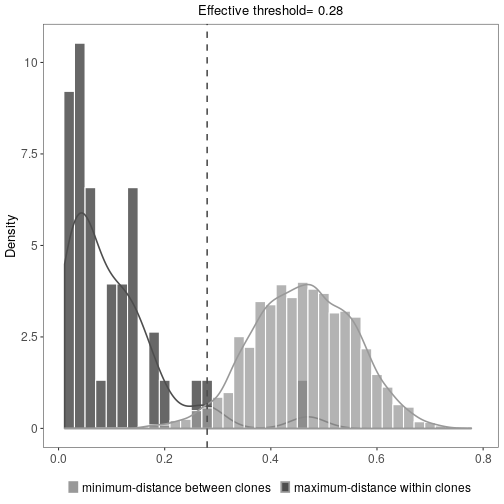
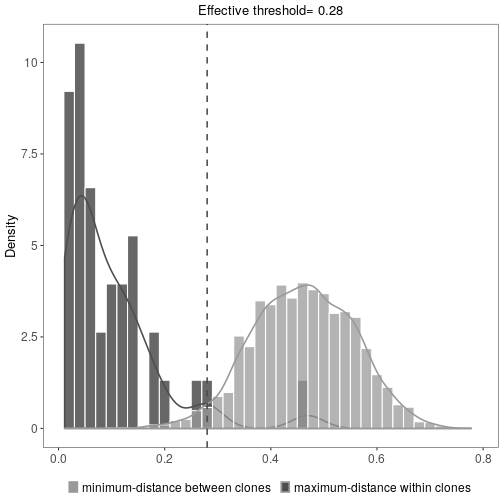
AIRR migration

diff --git a/docs/vignettes/Scoper-Vignette.md b/docs/vignettes/Scoper-Vignette.md
@@ -63,15 +63,16 @@ defineClonesScoper(db,
                    model = c("identical", "hierarchical", "spectral"),
                    method = c("nt", "aa", "single", "average", "complete", 
                               "novj", "vj"),
-                   germline_col = "GERMLINE_IMGT", sequence_col = "SEQUENCE_IMGT",
-                   junction_col = "JUNCTION", 
-                   v_call_col = "V_CALL", j_call_col = "J_CALL",
+                   germline_col = "germline_alignment", 
+                   sequence_col = "sequence_alignment",
+                   junction_col = "junction", 
+                   v_call_col = "v_call", j_call_col = "j_call",
                    clone_col = c("CLONE", "clone_id"),
                    targeting_model = NULL, len_limit = NULL, first = FALSE, 
                    cdr3 = FALSE, mod3 = FALSE, max_n = NULL, threshold = NULL,
                    base_sim = 0.95, iter_max = 1000, nstart = 1000, nproc = 1,
                    verbose = FALSE, log_verbose = FALSE, out_dir = ".",
-                   summerize_clones = FALSE)
+                   summarize_clones = FALSE)
 ```
 
 The following discussion is applicable for all three models. 
@@ -99,9 +100,9 @@ argument `mod3` should be set as `TRUE` (the default is `FALSE`).
 8. If the argument `log_verbose` be set as `TRUE`, the `verbose` output is written to 
 a file in the current input directory (by default).
 9. If the `out_dir` is specified, then its path will be used to save `log_verbose`. 
-10. If `summerize_clones` set to be `FALSE` (default), the `defineClonesScoper` function 
+10. If `summarize_clones` set to be `FALSE` (default), the `defineClonesScoper` function 
 will return a modified `data.frame` with clone identifiers in the `clone_col` column. 
-Otherwise, if `summerize_clones` set to be `TRUE`, the `defineClonesScoper` function 
+Otherwise, if `summarize_clones` set to be `TRUE`, the `defineClonesScoper` function 
 will perform a series of analyses to assess the clonal landscape and return a list 
 containing summary statistics and visualization of the clonal clustering results:
 
@@ -138,7 +139,19 @@ A small example Change-O database is included in the `scoper` package:
 # Clonal assignment using hierarchical model
 results <- defineClonesScoper(db = ExampleDb, clone_col = "CLONE",
                               model = "hierarchical", method = "single", 
-                              threshold = 0.15, summerize_clones = TRUE)
+                              germline_col = "GERMLINE_IMGT", 
+                              sequence_col = "SEQUENCE_IMGT", 
+                              junction_col = "JUNCTION", 
+                              v_call_col = "V_CALL", j_call_col = "J_CALL",
+                              threshold = 0.15, summarize_clones = TRUE)
+```
+
+```
+## Error in defineClonesScoper(db = ExampleDb, clone_col = "CLONE", model = "hierarchical", : Column(s) 'CLONE' already exist.
+##  Invalid column names are: 'CLONE', 'VJ_GROUP', 'VJL_GROUP', 'JUNCTION_L', 'CDR3', 'CDR3_L', 'CLONE_temp'.
+```
+
+```r
 # cloned data (a data.frame)
 cloned_db <- results$db
 # print effective threshold (a numeric)
@@ -146,7 +159,7 @@ results$eff_threshold
 ```
 
 ```
-## [1] 0.22
+## [1] 0.28
 ```
 
 ```r
@@ -166,10 +179,11 @@ results <- defineClonesScoper(db = ExampleDb, clone_col = "clone_id",
                               model = "spectral", method = "vj", 
                               len_limit = shazam::IMGT_V,
                               targeting_model = shazam::HH_S5F,
-                              sequence_col = "SEQUENCE_IMGT",
+                              sequence_col = "SEQUENCE_IMGT", 
                               germline_col = "GERMLINE_IMGT_D_MASK",
-                              threshold = 0.15, 
-                              summerize_clones = TRUE)
+                              junction_col = "JUNCTION", 
+                              v_call_col = "V_CALL", j_call_col = "J_CALL",
+                              threshold = 0.15, summarize_clones = TRUE)
 # cloned data (a data.frame)
 cloned_db <- results$db
 # print effective threshold (a numeric)

diff --git a/docs/topics/defineClonesScoper.md b/docs/topics/defineClonesScoper.md
@@ -12,14 +12,14 @@ Usage
 ```
 defineClonesScoper(db, model = c("identical", "hierarchical",
 "spectral"), method = c("nt", "aa", "single", "average", "complete",
-"novj", "vj"), germline_col = "GERMLINE_IMGT",
-sequence_col = "SEQUENCE_IMGT", junction_col = "JUNCTION",
-v_call_col = "V_CALL", j_call_col = "J_CALL",
+"novj", "vj"), germline_col = "germline_alignment",
+sequence_col = "sequence_alignment", junction_col = "junction",
+v_call_col = "v_call", j_call_col = "j_call",
 clone_col = c("clone_id", "CLONE"), targeting_model = NULL,
 len_limit = NULL, first = FALSE, cdr3 = FALSE, mod3 = FALSE,
 max_n = NULL, threshold = NULL, base_sim = 0.95, iter_max = 1000,
 nstart = 1000, nproc = 1, verbose = FALSE, log_verbose = FALSE,
-out_dir = ".", summerize_clones = FALSE)
+out_dir = ".", summarize_clones = FALSE)
 ```
 
 Arguments
@@ -114,7 +114,7 @@ out_dir
 :   specify the output directory to save `log_verbose`. The input 
 file directory is used if this is not specified.
 
-summerize_clones
+summarize_clones
 :   if `TRUE` performs a series of analysis to assess the clonal landscape.
 See Value for description.
 
@@ -124,8 +124,8 @@ See Value for description.
 Value
 -------------------
 
-For `summerize_clones` = `FALSE`, a modified data.frame with clone identifiers in the `clone_col` column. 
-For `summerize_clones` = `TRUE` returns a list containing:
+For `summarize_clones` = `FALSE`, a modified data.frame with clone identifiers in the `clone_col` column. 
+For `summarize_clones` = `TRUE` returns a list containing:
 
 + `db`:                   modified `db` data.frame with clone identifiers in the `clone_col` column. 
 + `vjl_group_summ`:       data.frame of clones summary, e.g. size, V-gene, J-gene, junction lentgh,
@@ -174,7 +174,9 @@ Examples
 ```R
 results <- defineClonesScoper(ExampleDb, 
 model="hierarchical", method="single", 
-threshold=0.15, summerize_clones=TRUE)
+germline_col = "GERMLINE_IMGT", sequence_col = "SEQUENCE_IMGT", 
+junction_col = "JUNCTION", v_call_col = "V_CALL", 
+j_call_col = "J_CALL", threshold=0.15, summarize_clones=TRUE)
 ```
 
 

diff --git a/docs/index.md b/docs/index.md
@@ -31,14 +31,22 @@ For help and questions please contact the [Immcantation Group](mailto:immcantati
 # Citing
 
 
-To cite the scoper package or spectral clustering-based model in publications, please use:
+To cite the scoper package or spectral clustering-based model in
+publications, please use:
 
-Nouri N, Kleinstein S (2018). “A spectral clustering-based method for identifying clones from high-throughput B cell repertoire sequencing data.”
-_Bioinformatics_, i341-i349. doi: 10.1093/bioinformatics/bty235 (URL: https://doi.org/10.1093/bioinformatics/bty235).
+Nouri N, Kleinstein S (2018). “A spectral clustering-based method for
+identifying clones from high-throughput B cell repertoire sequencing
+data.” _Bioinformatics_, i341-i349. doi:
+10.1093/bioinformatics/bty235 (URL:
+https://doi.org/10.1093/bioinformatics/bty235).
 
-To cite the hierarchical clustering-based model in publications, please use:
+To cite the hierarchical clustering-based model in publications,
+please use:
 
-Gupta N, Adams K, Briggs A, Timberlake S, Vigneault F, Kleinstein S (2017). “Hierarchical clustering can identify B cell clones with high confidence in
-Ig repertoire sequencing data.” _The Journal of Immunology_, 2489-2499. doi: 10.4049/jimmunol.1601850 (URL: https://doi.org/10.4049/jimmunol.1601850).
+Gupta N, Adams K, Briggs A, Timberlake S, Vigneault F, Kleinstein S
+(2017). “Hierarchical clustering can identify B cell clones with high
+confidence in Ig repertoire sequencing data.” _The Journal of
+Immunology_, 2489-2499. doi: 10.4049/jimmunol.1601850 (URL:
+https://doi.org/10.4049/jimmunol.1601850).
 
 

diff --git a/NEWS.md b/NEWS.md
@@ -1,3 +1,13 @@
+Version 0.2.0.999 Oct 31, 2019
+-------------------------------------------------------------------------------
+
+General:
+
++ AIRR
+
++ added largest-distance-to-nearest filter to clustering process.
+
+
 Version 0.2.0:  August 5, 2019
 -------------------------------------------------------------------------------
 

diff --git a/docs/news.md b/docs/news.md
@@ -1,3 +1,13 @@
+Version 0.2.0.999 Oct 31, 2019
+-------------------------------------------------------------------------------
+
+General:
+
++ AIRR
+
++ added largest-distance-to-nearest filter to clustering process.
+
+
 Version 0.2.0:  August 5, 2019
 -------------------------------------------------------------------------------
 
